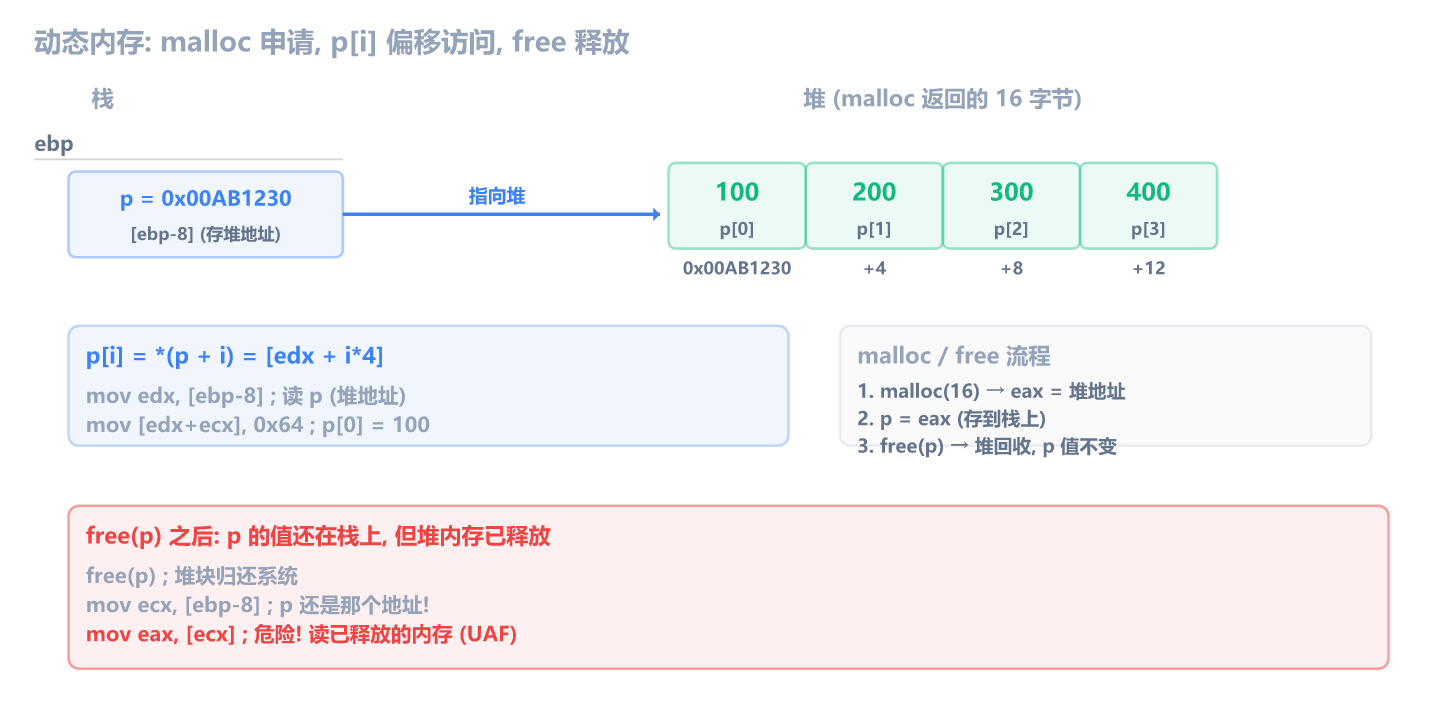
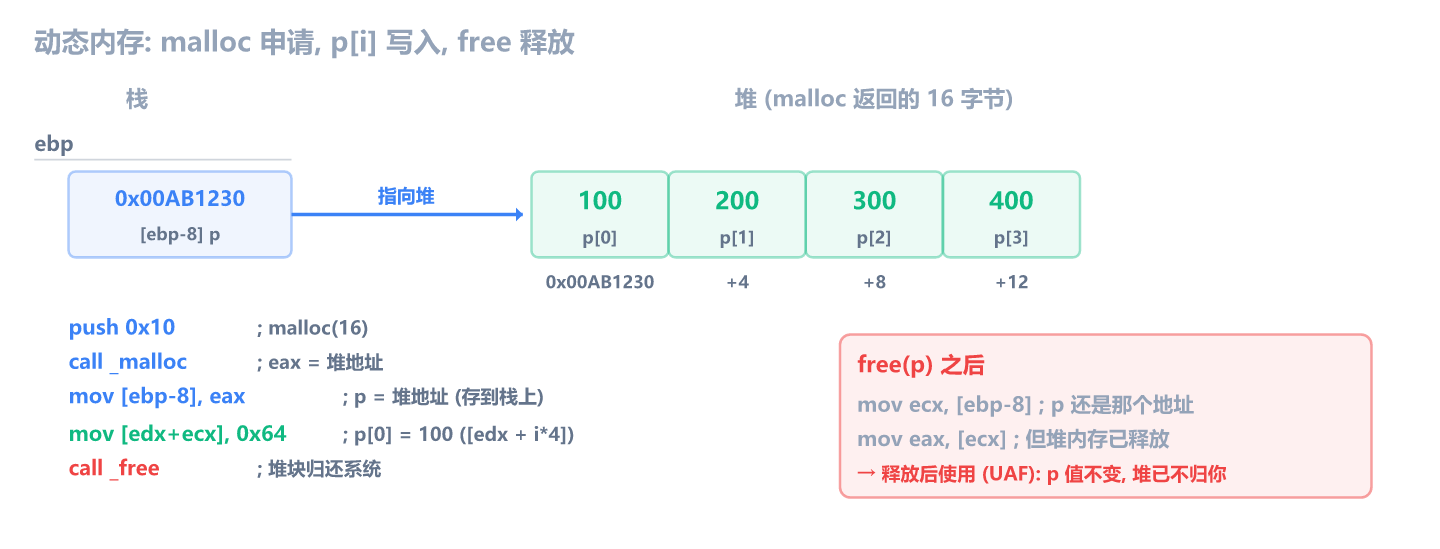
feat: redesign heap-demo SVG, add malloc/sizeof breakdown, fix exercise 4 stack offset

diff --git a/src/data/books/reverse-engineering/c-asm/c-asm-6.md b/src/data/books/reverse-engineering/c-asm/c-asm-6.md
@@ -227,6 +227,8 @@ mov  eax, dword ptr [ecx+8]       ; 再用指针做 base 间接访问
 
 ## 动态内存
 
+前面讲的指针都指向栈上的变量（`int a = 42; int *p = &a;`）。但很多数据在编译时大小未知，需要运行时才分配——这就是堆内存。
+
 ```c
 void heap_demo(void) {
     int *p = (int *)malloc(4 * sizeof(int));
@@ -238,6 +240,16 @@ void heap_demo(void) {
     free(p);
 }
 ```
+
+先拆解 `int *p = (int *)malloc(4 * sizeof(int))` 这行：
+
+1. `sizeof(int)` — `sizeof` 是编译期运算符，算出 `int` 占多少字节。`int` 是 4 字节，所以 `sizeof(int)` 在编译时直接替换成常量 `4`，不产生任何指令
+2. `4 * sizeof(int)` — 编译器算出 `4 × 4 = 16`，也是个常量
+3. `malloc(16)` — 向系统申请 16 字节堆内存，返回这块内存的起始地址。`malloc` 的返回类型是 `void *`（无类型指针），意味着"这是一块内存，你自己决定怎么解读"
+4. `(int *)` — 强制类型转换，告诉编译器"把这个地址当成 `int *` 来用"。不产生指令，只影响编译器的类型检查
+5. `int *p = ...` — 把返回的堆地址存到栈上的 `p` 里
+
+合起来就是：申请 16 字节堆内存，拿到地址，存到 `p`，按 `int` 数组用。
 
 核心汇编：
 
@@ -365,22 +377,22 @@ add  esp, 4
    push 8
    call _malloc
    add  esp, 4
-   mov  dword ptr [ebp-4], eax       ; p = malloc(8)
-   mov  ecx, dword ptr [ebp-4]       ; 读 p
+   mov  dword ptr [ebp-8], eax       ; p = malloc(8)
+   mov  ecx, dword ptr [ebp-8]       ; 读 p
    mov  dword ptr [ecx], 0x6F         ; p[0] = 111
-   mov  edx, dword ptr [ebp-4]
+   mov  edx, dword ptr [ebp-8]
    mov  dword ptr [edx+4], 0x0DE      ; p[1] = 222
-   mov  eax, dword ptr [ebp-4]
+   mov  eax, dword ptr [ebp-8]
    push eax
    call _free
    add  esp, 4
-   mov  ecx, dword ptr [ebp-4]       ; p 还在吗？
+   mov  ecx, dword ptr [ebp-8]       ; p 还在吗？
    mov  eax, dword ptr [ecx]         ; 这行能执行吗？
    ```
 
    > [!NOTE]- 参考答案
    >
-   > 这是**释放后使用**（Use After Free）。`free(p)` 之后，`p` 的值（栈上 `[ebp-4]`）没变，还是那个堆地址。但那块堆内存已经被释放，不再属于这个程序。最后两行去读已释放的内存，是未定义行为，可能读到旧值，可能读到垃圾，可能直接崩溃。
+   > 这是**释放后使用**（Use After Free）。`free(p)` 之后，`p` 的值（栈上 `[ebp-8]`）没变，还是那个堆地址。但那块堆内存已经被释放，不再属于这个程序。最后两行去读已释放的内存，是未定义行为，可能读到旧值，可能读到垃圾，可能直接崩溃。
    >
    > ```c
    > int *p = malloc(8);

diff --git a/docs/writing-plans/reverse-engineering.md b/docs/writing-plans/reverse-engineering.md
@@ -109,7 +109,7 @@ src/data/books/reverse-engineering/
 | Order | 文件 | 标题 | 内容要点 |
 |---|---|---|---|
 | 34 | c-asm-11.md | 位域与联合体 | 位域（游戏状态标志位高频用法，呼应 asm-logic）；union（同内存多种解读，reinterpret cast）；取/设/清状态位 |
-| 35 | c-asm-12.md | 编译器优化与 Release 形态 | Debug vs Release；常量折叠/死代码消除/循环展开；寄存器分配差异；内联/尾调用；看懂 Release 反汇编的策略 |
+| 35 | c-asm-12.md | 编译器优化与 Release 形态 | Debug vs Release；常量折叠/死代码消除/循环展开；寄存器分配差异；内联/尾调用；sizeof 是编译期消除（不产生指令）；看懂 Release 反汇编的策略 |
 | 36 | c-asm-13.md | x86-64 汇编形态 | 64 位寄存器扩展（RAX/R8-R15）；fastcall 约定（前 6 参数走寄存器）；64 位栈帧 [rsp+N]；MOVSX/MOVZX 更频繁；何时遇到 x64（现代游戏/系统 DLL/驱动） |
 | 37 | c-asm-14.md | C++ this 指针与成员访问 | thiscall 约定（ecx=this）；`obj.method()`→`lea ecx,[obj]; call method`；`[ecx+offset]` 访问成员；构造/析构函数汇编；new/delete vs malloc/free；this 与多级指针 |
 | 38 | c-asm-15.md | 虚函数表与多态 | vtable 内存布局（对象首 4 字节=vptr）；`virtual func()`→`mov eax,[ecx]; call [eax+offset]`；继承链内存布局；多继承 vtable；RTTI/dynamic_cast；引擎 UObject/Entity 布局 |
